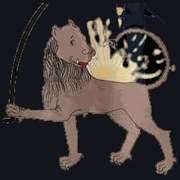
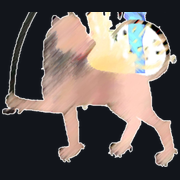
Swap the mark for the pale drawing
The bar now carries the lighter version of the lion. Against a near-black
bar it reads better than the one it replaces: the pale body separates from
the ground where the brown one sat close to it, and the sabre, which was
nearly invisible before, now shows as a clear curve.

Cut the same way but from white, and kept tight — this drawing is pale all
through, and a looser threshold ate the cream of the lion and the light
around the rider.

The previous mark stays as logo-dark.png. Swapping back is a rename.

The tab icons are recut from it too, and both now sit on the bar's dark
ground rather than being transparent: pale artwork on a white browser tab
all but disappears, which the old brown one did not have to worry about.

Measured again down to 320 px — the bar still fits with no sideways scroll.

Claude-Session: https://claude.ai/code/session_01W9bW1GNKxKVuMmgG3J8GsB

diff --git a/public/img/README.md b/public/img/README.md
@@ -2,14 +2,18 @@
 
 The site's own artwork. Anything here is served from `/img/…`.
 
-`logo.png` is the mark in the top bar, shown 44 px tall. It was cut out of the
-original drawing by flood-filling the black ground from the border, which is
-conservative on purpose: the sabre is drawn almost as dark as the background, so
-a bolder cut erased it. What survives is a thin dark fringe, invisible against
-the near-black bar. If the file ever fails to load, the bar falls back to a pin.
+`logo.png` is the mark in the top bar, shown 44 px tall. It is cut out of the
+drawing by flood-filling the background from the border — white, in this one —
+which is kept tight on purpose: the drawing is pale throughout, and a looser cut
+eats the cream of the lion and the light around the rider. If the file ever
+fails to load, the bar falls back to a plain pin.
+
+`logo-dark.png` is the earlier version, in deeper colours on a black ground.
+It is kept in case it is wanted back; swapping them is a rename.
 
 `icon-32.png` is the browser-tab icon and `icon-180.png` the one iOS uses on a
-home screen. Both are cut from the same drawing, minus the flag: it flies far
-above the lion, and at tab size keeping it only shrinks everything else. What is
-left — the lion, the sabre, the rider — is nearly square and fills the icon. The
-iOS one is on an opaque dark ground, because iOS fills transparency with black.
+home screen. Both are cut from the same drawing, minus the rider, who stands
+well above the lion: keeping her only shrinks everything else until the icon is
+a smudge. What is left — the lion and the sabre — is nearly square and fills it.
+Both sit on the bar's own dark ground rather than being transparent, because
+this artwork is too pale to read against a light browser tab.
